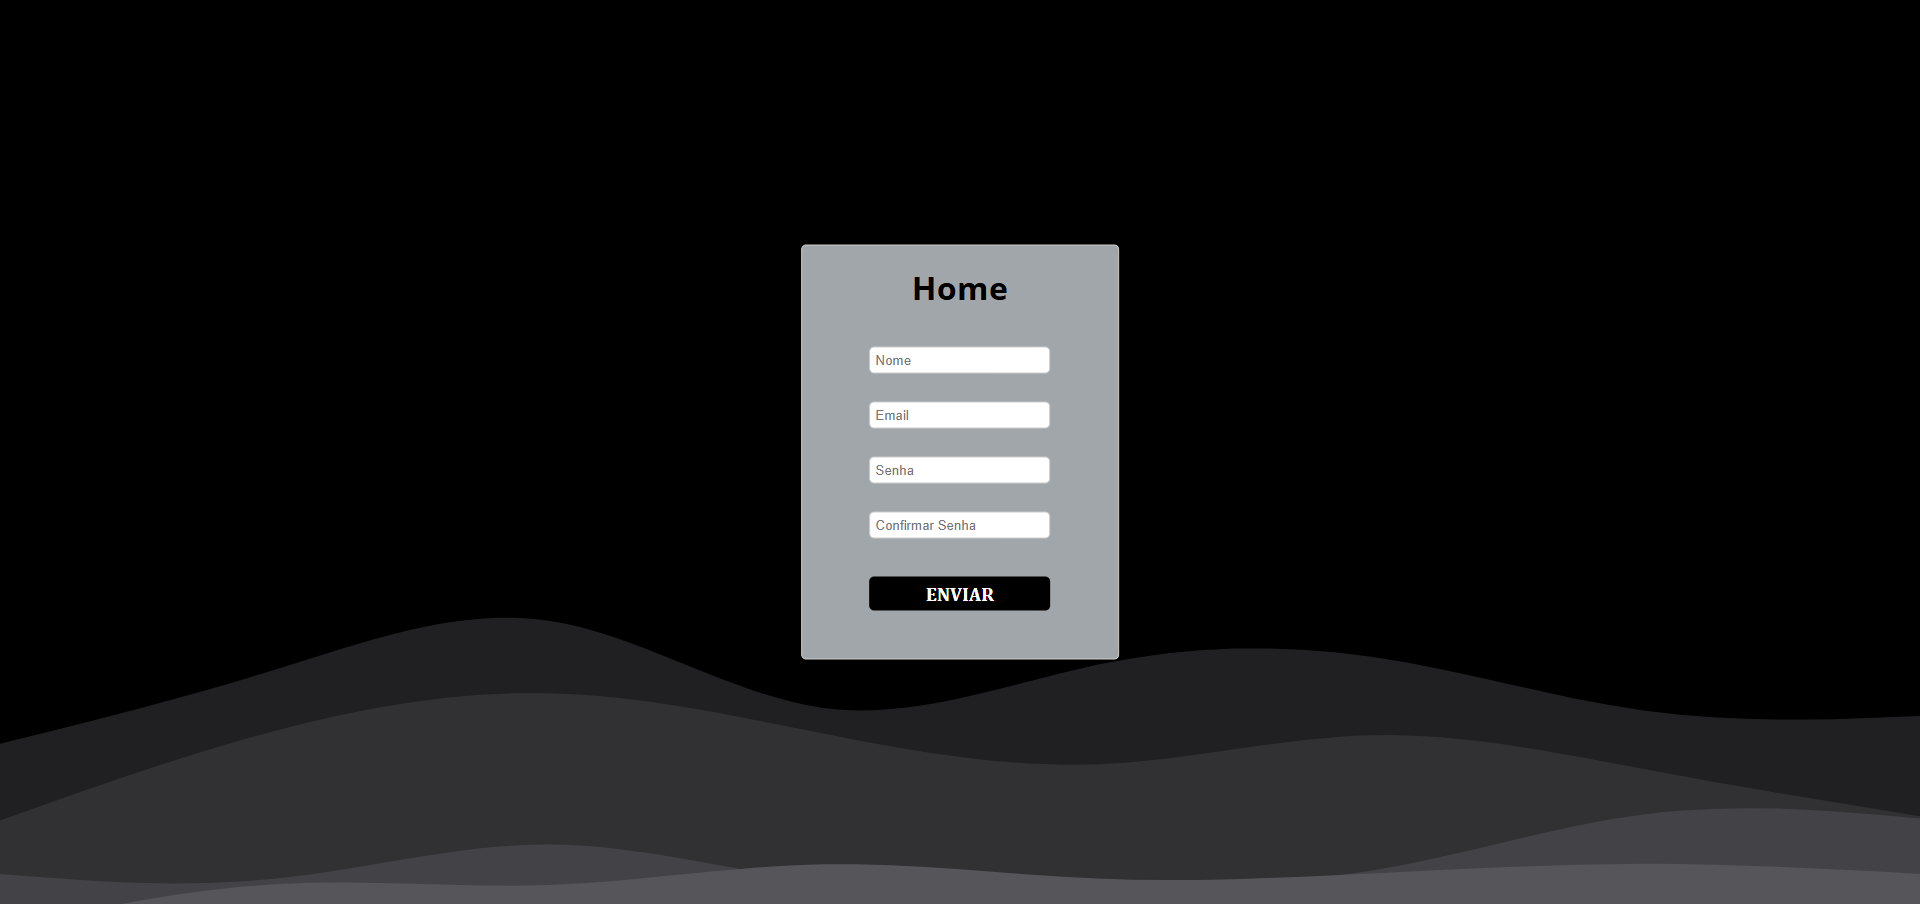
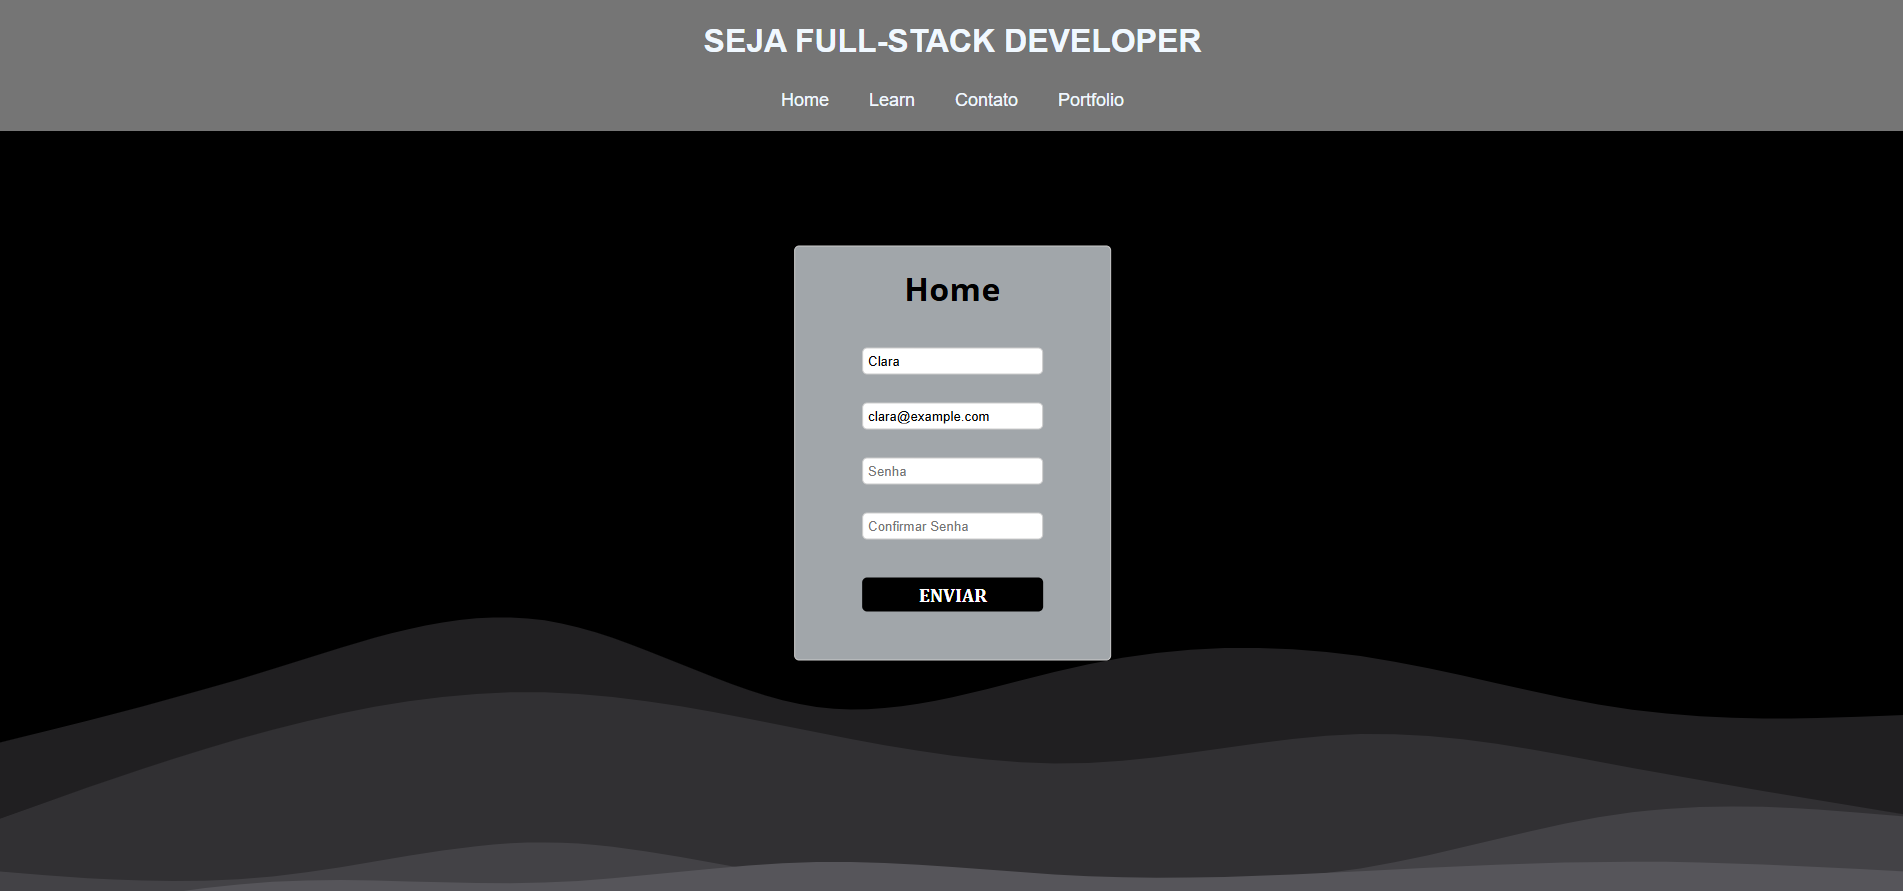
added-nav-bar

diff --git a/src/styles/index.scss b/src/styles/index.scss
@@ -66,6 +66,38 @@ body {
     align-items: center;
     height: 100vh;
 }
+.main-content {
+    display: flex;
+    flex-direction: column;
+    align-items: center;
+    position: absolute;
+    top: 0; /* Move para o topo da página */
+    left: 50%; /* Centraliza horizontalmente */
+    transform: translateX(-50%); /* Ajusta para o centro exato */
+    margin-bottom: auto; /* Remove qualquer margem inferior */
+    padding: 20px;
+    margin-top: 0;
+    width: 100%; /* Opcional: ajusta a largura */
+    background-color: #757575;
+}
+.header-container {
+    margin-top: 10px;
+}
+.navbar ul{
+    display: flex;
+    list-style-type: none;
+    margin-top: 30px;
+}
+.navbar li a {
+    margin: 0 20px; /* Espaçamento entre os itens do menu */
+    text-decoration: none;
+    color: aliceblue;
+    font-size: large;
+}
+.navbar li a:hover {
+    color: #000;
+    text-decoration: underline;
+}
 .form {
     position: absolute; /* Posiciona a form em relação ao contêiner */
     top: 50%; /* Centraliza verticalmente */

diff --git a/src/styles/index.css b/src/styles/index.css
@@ -54,6 +54,43 @@ body {
   height: 100vh;
 }
 
+.main-content {
+  display: flex;
+  flex-direction: column;
+  align-items: center;
+  position: absolute;
+  top: 0; /* Move para o topo da página */
+  left: 50%; /* Centraliza horizontalmente */
+  transform: translateX(-50%); /* Ajusta para o centro exato */
+  margin-bottom: auto; /* Remove qualquer margem inferior */
+  padding: 20px;
+  margin-top: 0;
+  width: 100%; /* Opcional: ajusta a largura */
+  background-color: #757575;
+}
+
+.header-container {
+  margin-top: 10px;
+}
+
+.navbar ul {
+  display: flex;
+  list-style-type: none;
+  margin-top: 30px;
+}
+
+.navbar li a {
+  margin: 0 20px; /* Espaçamento entre os itens do menu */
+  text-decoration: none;
+  color: aliceblue;
+  font-size: large;
+}
+
+.navbar li a:hover {
+  color: #000;
+  text-decoration: underline;
+}
+
 .form {
   position: absolute; /* Posiciona a form em relação ao contêiner */
   top: 50%; /* Centraliza verticalmente */

diff --git a/src/index.html b/src/index.html
@@ -10,6 +10,19 @@
 </head>
 <body>
     <div data-container-principal="Esse é o container principal" class="container">
+        <div class="main-content">
+            <header class="header-container">
+                <h1 style="color:aliceblue">SEJA FULL-STACK DEVELOPER</h1>
+            </header>
+            <nav class="navbar">
+                <ul>
+                    <li><a href="./index.html">Home</a></li>
+                    <li><a href="./learn/learn.html">Learn</a></li>
+                    <li><a href="#">Contato</a></li>
+                    <li><a href="#">Portfolio</a></li>
+                </ul>
+            </nav>
+        </div>
         <div class="form">
             <div class="form-container">
                 <form action="" id="form">
